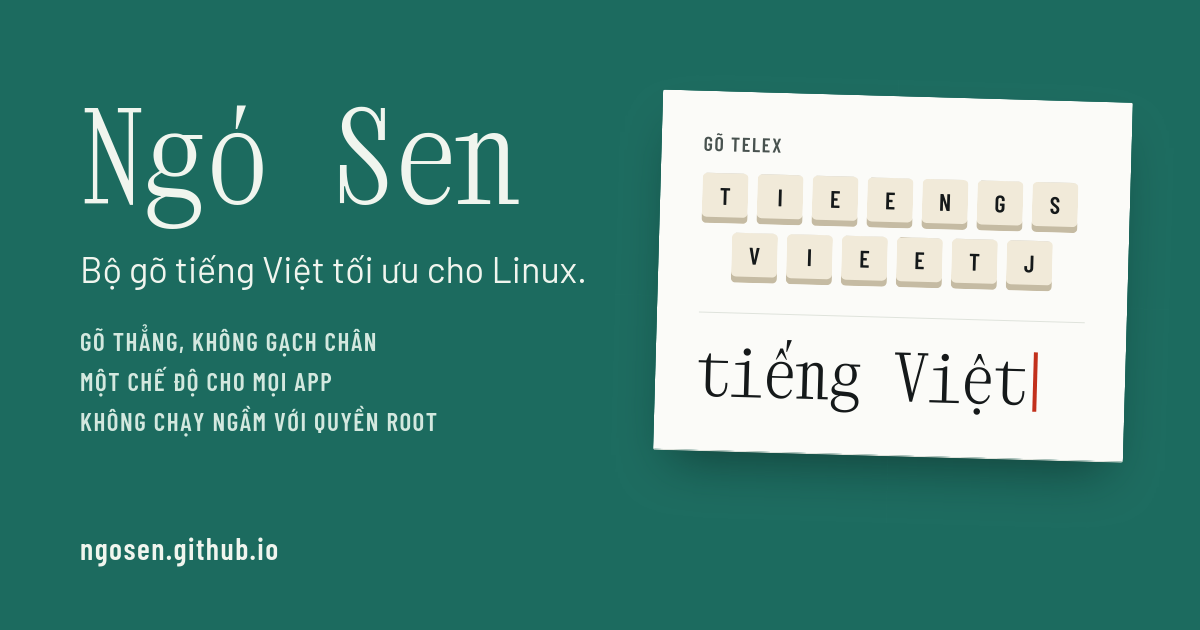
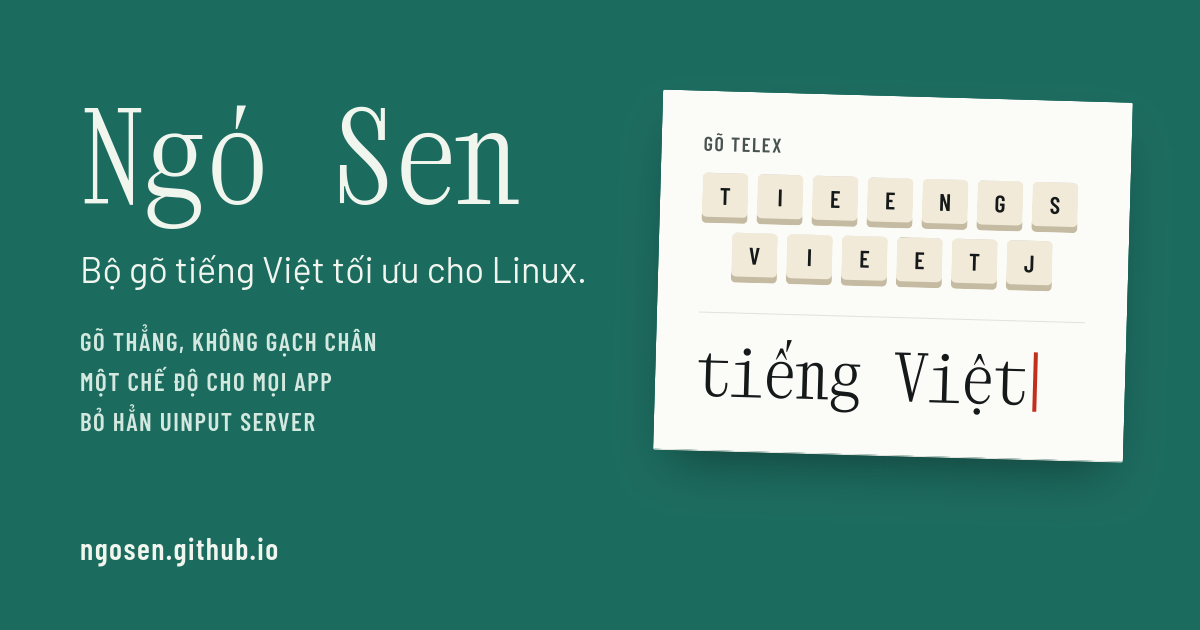
fix: drop the "no root daemon" claim
The old uinput server ran as the uinput_proxy user, not as root. The highlight, /en/ and the link preview image now just say the server is gone, matching the README (#85).

Claude-Session: https://claude.ai/code/session_01JdXPM1moo4vhf7hRzhm7ds

Changed region(s): [[0.0617, 0.6333, 0.37, 0.6937]]

diff --git a/src/data/site.ts b/src/data/site.ts
@@ -176,8 +176,8 @@ export const TAGLINE = 'Bộ gõ tiếng Việt tối ưu cho Linux.';
 
 export const HIGHLIGHTS: { title: string; text: string }[] = [
   {
-    title: 'Không chạy ngầm với quyền root',
-    text: 'Bỏ hẳn uinput server, Ngó Sen chỉ dùng đúng quyền của fcitx5. Cài xong là gõ, không bật dịch vụ, không cấp quyền thiết bị.',
+    title: 'Bỏ hẳn uinput server',
+    text: 'Ngó Sen chỉ dùng đúng quyền của fcitx5. Cài xong là gõ, không bật dịch vụ, không cấp quyền thiết bị.',
   },
   {
     title: 'Gõ thẳng, không gạch chân',

diff --git a/tools/og/card.html b/tools/og/card.html
@@ -164,7 +164,7 @@
     <div class="copy">
       <h1>Ngó Sen</h1>
       <p class="tagline">Bộ gõ tiếng Việt tối ưu cho Linux.</p>
-      <p class="points">Gõ thẳng, không gạch chân<br />Một chế độ cho mọi app<br />Không chạy ngầm với quyền root</p>
+      <p class="points">Gõ thẳng, không gạch chân<br />Một chế độ cho mọi app<br />Bỏ hẳn uinput server</p>
     </div>
     <p class="url">ngosen.github.io</p>
 
